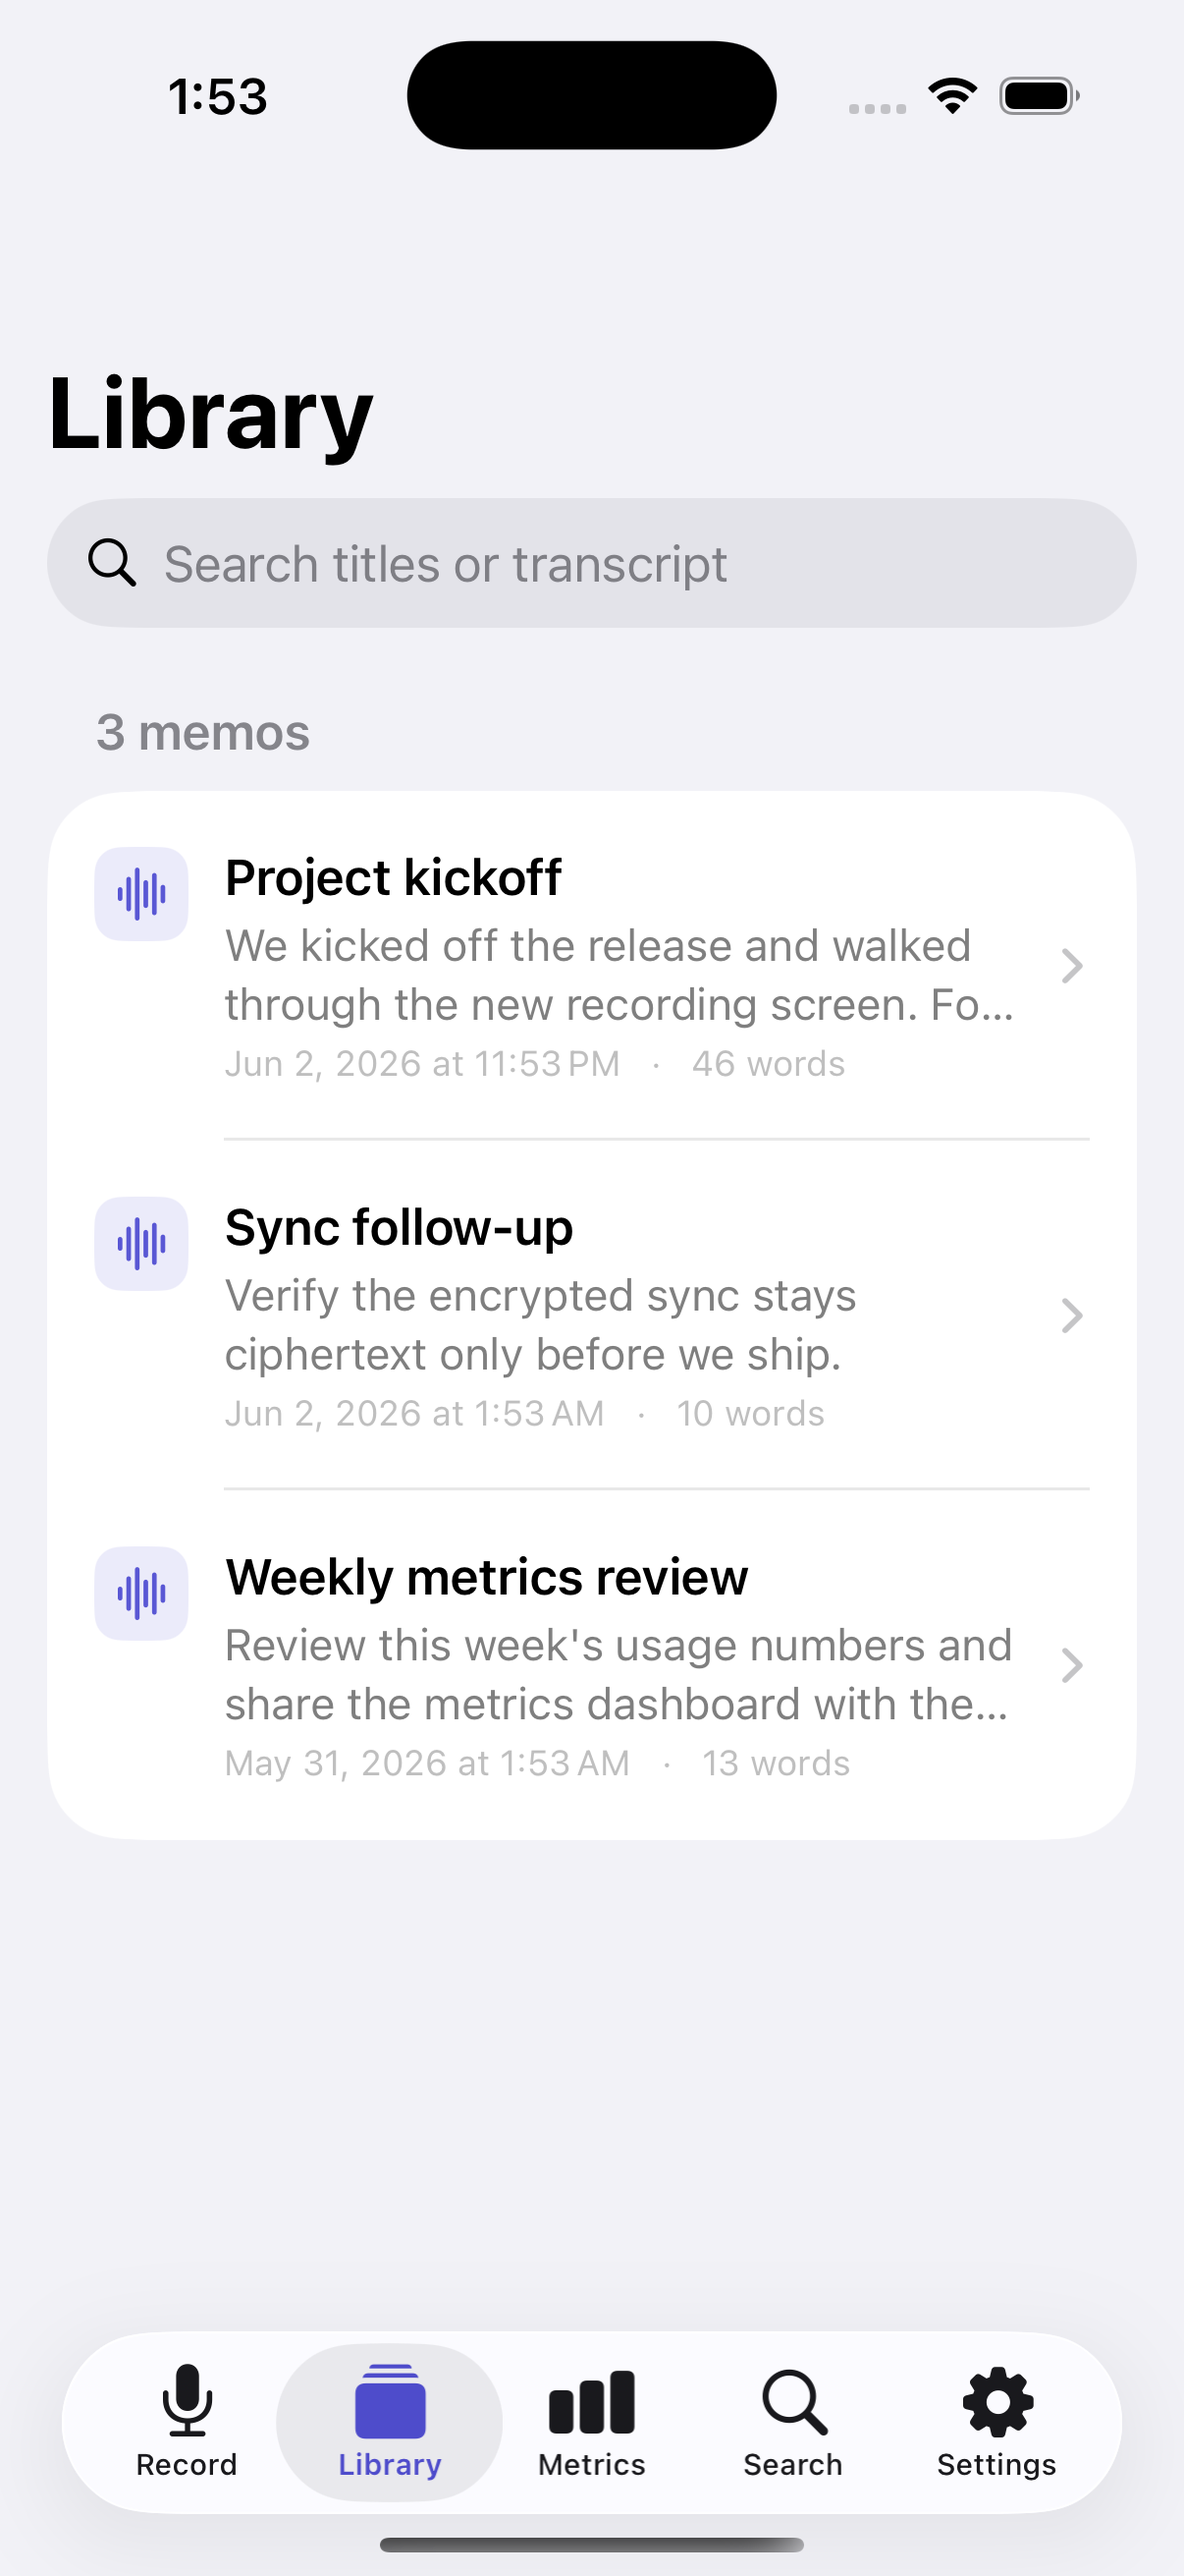
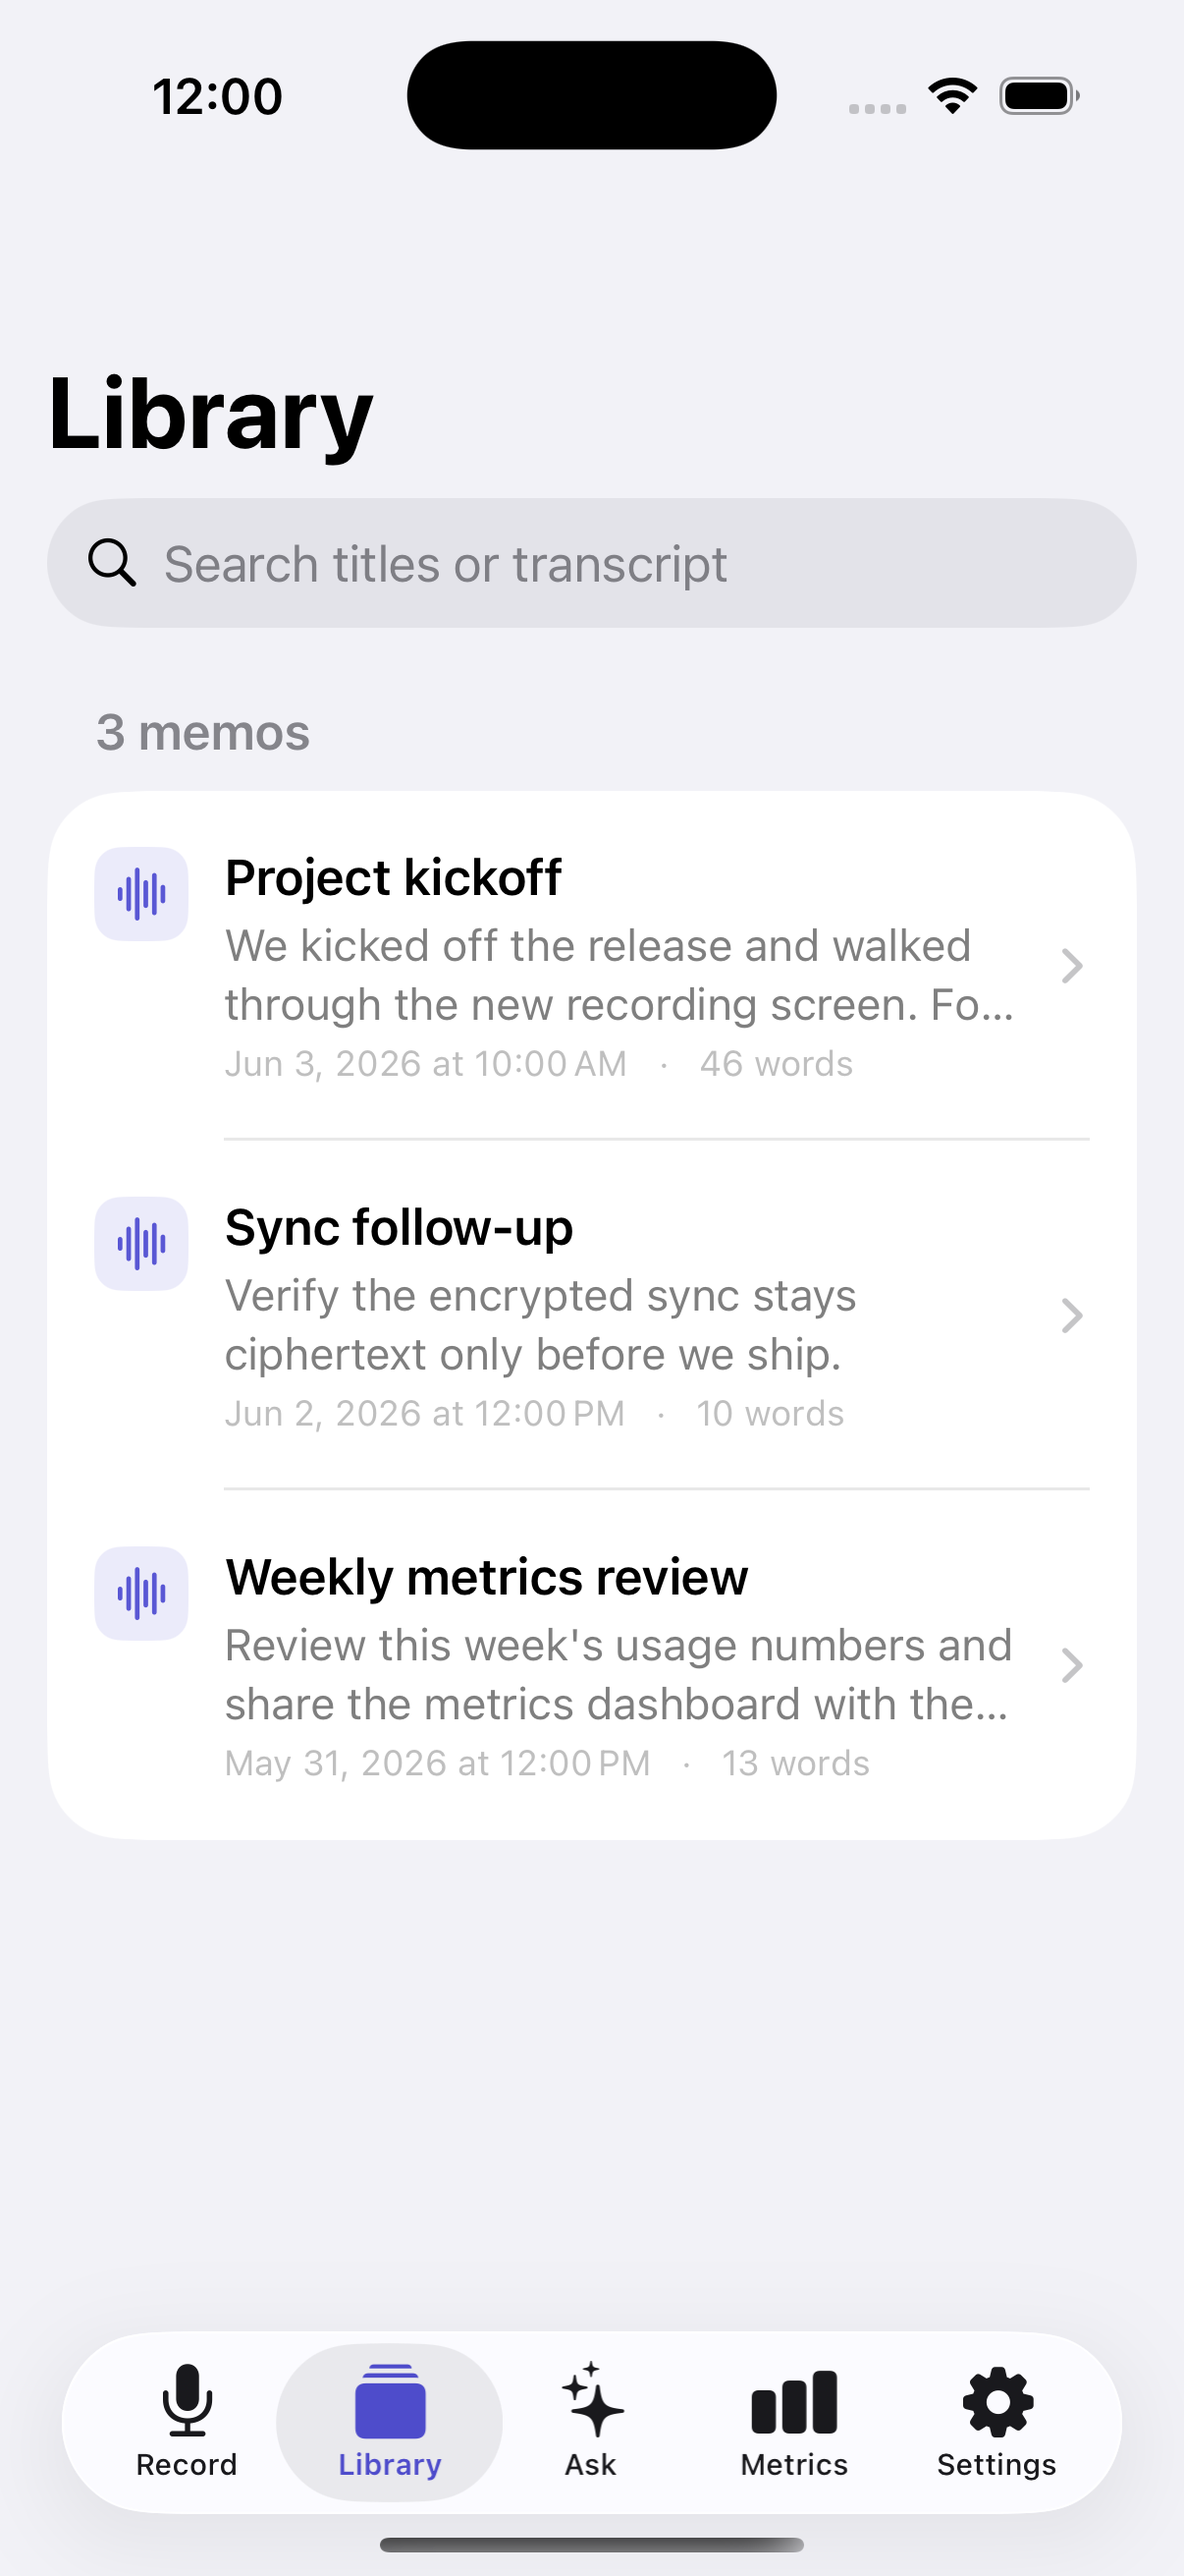
document semantic search + rag, add ask screenshot, refresh shots for new tab

diff --git a/README.md b/README.md
@@ -1,21 +1,23 @@
 # Murmur
 
 A local-first voice memo app for iPhone, Mac, and Apple Watch. Murmur records and
-transcribes spoken notes on device, then uses **Apple Intelligence** (the
-on-device foundation model) to summarize them and pull out action items — all
-without anything leaving the device. One shared Swift core powers every platform;
-the UI is built natively in SwiftUI.
+transcribes spoken notes on device, then uses **Apple Intelligence** and
+**on-device semantic search** to summarize them, pull out action items, and let
+you *ask questions about your own memos* — a complete retrieval-augmented
+generation (RAG) pipeline that never leaves the device. One shared Swift core
+powers every platform; the UI is built natively in SwiftUI.
 
 ## Screenshots
 
 ### iPhone
 
-| Record | Insights | Library | Metrics |
-| --- | --- | --- | --- |
-| ![Record](docs/screenshots/record.png) | ![Insights](docs/screenshots/insights.png) | ![Library](docs/screenshots/library.png) | ![Metrics](docs/screenshots/metrics.png) |
+| Record | Ask | Insights | Library | Metrics |
+| --- | --- | --- | --- | --- |
+| ![Record](docs/screenshots/record.png) | ![Ask](docs/screenshots/ask.png) | ![Insights](docs/screenshots/insights.png) | ![Library](docs/screenshots/library.png) | ![Metrics](docs/screenshots/metrics.png) |
 
-*Insights (summary, action items, topics) are generated on device — by Apple
-Intelligence when available, with a heuristic fallback otherwise.*
+*Ask answers questions from your memos via on-device semantic retrieval +
+Apple's foundation model; Insights (summary, action items, topics) are generated
+on device too. Both degrade gracefully when Apple Intelligence is unavailable.*
 
 ### Mac
 
@@ -27,12 +29,18 @@ Intelligence when available, with a heuristic fallback otherwise.*
 
 ## Features
 
-- **On-device intelligence (Apple Intelligence).** When the device supports it,
-  Murmur runs Apple's on-device foundation model via the `FoundationModels`
-  framework, using **guided generation** (`@Generable`) to produce a structured
-  summary, action items, and topics for each memo — entirely on device. It
-  degrades gracefully to a deterministic heuristic summarizer on older OSes,
-  watchOS, or when Apple Intelligence is unavailable.
+- **Ask your memos (on-device RAG).** Ask a question in plain language; Murmur
+  retrieves the most relevant memos by *meaning* (on-device embeddings) and has
+  Apple's foundation model answer grounded in them, with citations. Fully
+  private, with an extractive fallback when Apple Intelligence is unavailable.
+- **Semantic + hybrid search.** Memos are embedded with `NLEmbedding`
+  (`NaturalLanguage`) and ranked by cosine similarity, then fused with the FTS5
+  keyword ranking via Reciprocal Rank Fusion — so search matches both exact words
+  and intent.
+- **On-device intelligence (Apple Intelligence).** Per-memo summaries, action
+  items, and topics via the `FoundationModels` framework using **guided
+  generation** (`@Generable`) — entirely on device, with a deterministic
+  heuristic fallback on older OSes, watchOS, or when Apple Intelligence is off.
 - **On-device capture and transcription.** Audio is recorded with `AVAudioEngine`
   and transcribed with `SFSpeechRecognizer`, preferring on-device recognition so
   speech never has to leave the device.

diff --git a/docs/ARCHITECTURE.md b/docs/ARCHITECTURE.md
@@ -52,6 +52,34 @@ second speech request.
 This is the deliberate counterpoint to keyword/FTS retrieval: generative,
 on-device understanding rather than substring matching.
 
+## Semantic search & RAG
+
+Murmur retrieves memos by meaning, not just keywords, and can answer questions
+about them — a fully on-device retrieval-augmented generation pipeline.
+
+```
+Question / query
+   │
+   ├─ EmbeddingService (NLEmbedding, 512-d) ─ cosine ─► SemanticMemoIndex (cached)
+   │                                                         │  ranked-by-meaning
+   ├─ MemoStore.search (FTS5 bm25) ──────────────────────────┤  ranked-by-keyword
+   │                                                         ▼
+   │                                          HybridSearch.reciprocalRankFusion  → Library results
+   │
+   └─ MemoAnswerService: top-k semantic retrieval → FoundationModels (grounded) → Answer + sources
+```
+
+- **Embeddings:** `EmbeddingService` wraps `NLEmbedding.sentenceEmbedding`
+  (`NaturalLanguage`) — on device, no dependency, available since iOS 14 / macOS
+  11 (so it is safe to depend on unconditionally, unlike the iOS 26 model).
+- **Semantic index:** `SemanticMemoIndex` caches memo vectors by id + `updatedAt`
+  and ranks by cosine similarity.
+- **Hybrid search:** `HybridSearch.reciprocalRankFusion` fuses the keyword (FTS5)
+  and semantic rankings without score normalization; the Library search uses it.
+- **RAG:** `MemoAnswerService` retrieves the top memos semantically, then prompts
+  the foundation model to answer grounded in them (with citations), falling back
+  to an extractive answer when Apple Intelligence is unavailable.
+
 ## Persistence
 
 `MemoStore` is the observable, in-memory view SwiftUI binds to. Durability is

diff --git a/CHANGELOG.md b/CHANGELOG.md
@@ -2,6 +2,15 @@
 
 ## Unreleased
 
+### Semantic search & RAG
+- On-device sentence embeddings (`NLEmbedding`) with a cached `SemanticMemoIndex`
+  for meaning-based ranking.
+- Hybrid search via Reciprocal Rank Fusion of FTS5 keyword + semantic rankings;
+  the Library search now uses it.
+- New **Ask** tab: a retrieval-augmented generation pipeline that answers
+  questions about your memos on device, with citations and an extractive
+  fallback. Replaced the redundant standalone Search tab.
+
 ### Intelligence
 - On-device memo summaries, action items, and topics via Apple Intelligence
   (the `FoundationModels` framework) with guided generation, gated behind
